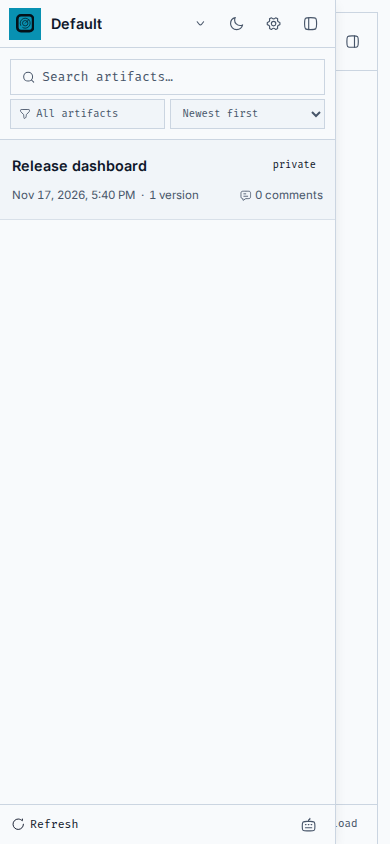
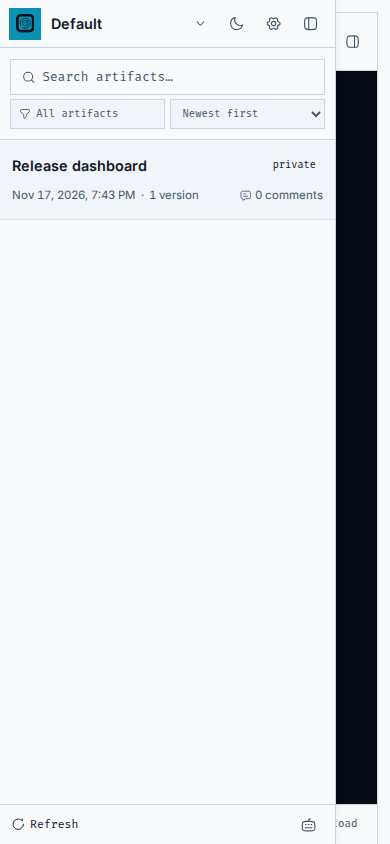
Fix dark accent button contrast (houston-modules-k1oe)

Changed region(s): [[0.8615, 0.0616, 0.9846, 0.955], [0.2769, 0.2156, 0.3077, 0.2464]]

diff --git a/apps/web/src/components/ui/button.tsx b/apps/web/src/components/ui/button.tsx
@@ -10,7 +10,7 @@ const buttonVariants = cva(
   {
     variants: {
       variant: {
-        default: "bg-primary text-[var(--ox-color-on-accent)] hover:bg-primary/80",
+        default: "bg-primary text-primary-foreground hover:bg-primary/80",
         outline:
           "border-border bg-transparent hover:bg-muted hover:text-foreground aria-expanded:bg-muted aria-expanded:text-foreground dark:hover:bg-input/30",
         secondary:

diff --git a/project/capture-rebrand.ts b/project/capture-rebrand.ts
@@ -1,6 +1,6 @@
 /**
  * Manual, non-CI Houston Artifacts screenshot matrix.
- * Run from the repository root with: pnpm exec tsx project/capture-rebrand.ts
+ * Run from the repository root with: pnpm build && pnpm exec tsx project/capture-rebrand.ts
  */
 /* oxlint-disable no-await-in-loop -- Captures are intentionally sequential to preserve output order. */
 import {createHash} from "node:crypto";

diff --git a/apps/web/src/review/review.css b/apps/web/src/review/review.css
@@ -44,7 +44,6 @@ body {
 button,
 input,
 select {
-  color: inherit;
   font: inherit;
 }
 
